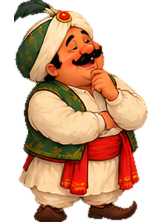
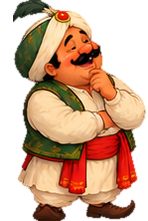
Fix the gardener's size, his legs, and the overlapping pose
Three things, all from the same re-cut:

- His resting poses were drawn at different scales on the source sheet --
  the ratio of turban width to figure height is identical across all three,
  so the pose is genuinely 8% small, not hunched. Every pose in a resting
  set is now forced to one height.

- The sheets draw the same character at sizes up to 20% apart, so the
  gesture sheet's gardener was a fifth larger than the walk sheet's. Each
  character's sets are now normalised against the smallest set's median,
  scaling down rather than up so nothing goes soft. This was quietly
  affecting the cook too (idle 281px against walk 229px).

- Grid slicing was cropping by cell, and these figures are taller than the
  row pitch, so the crop lopped their legs off at the row line -- which is
  what made one pose look cut off and collide with the next during the
  cross-dissolve. Grid mode slices by column strip now: full sheet height,
  so each figure comes out whole.

diff --git a/tools/build_sprites.py b/tools/build_sprites.py
@@ -100,12 +100,15 @@ def bbox_and_centroid(im):
     return bb, (sx / n, sy / n)
 
 
-def normalise(paths, pad=2):
-    """Bottom-align and centre each frame, keeping its native size.
+def normalise(paths, pad=2, scale=1.0, fit=None):
+    """Bottom-align and centre each frame, optionally rescaling it.
 
-    Deliberately no rescaling: within one sheet the generator already draws every
-    figure at the same scale, and forcing a common height would blow a seated
-    monkey up to the size of a walking one."""
+    `scale` multiplies every frame in the group equally, which keeps whatever
+    variation the artist drew (a walk cycle's bob, a seated monkey being
+    shorter). `fit` instead forces each frame to one height, for a set of poses
+    that are all the same figure standing and must not change size between
+    them — these sheets do draw some poses a few percent small.
+    """
     out = {}
     for p in paths:
         im = Image.open(p).convert('RGBA')
@@ -113,7 +116,15 @@ def normalise(paths, pad=2):
         if bb is None:
             raise SystemExit(f'{p} is empty')
         crop = im.crop(bb)
-        off = cx - bb[0]
+        factor = scale
+        if fit:
+            factor = fit / crop.size[1]
+        if abs(factor - 1.0) > 1e-3:
+            nw = max(1, round(crop.size[0] * factor))
+            nh = max(1, round(crop.size[1] * factor))
+            crop = crop.resize((nw, nh), Image.LANCZOS)
+            cx = cx * factor
+        off = cx - bb[0] * factor
         half = max(off, crop.size[0] - off) + pad
         w = int(round(half * 2))
         canvas = Image.new('RGBA', (w, crop.size[1]), (0, 0, 0, 0))
@@ -122,16 +133,67 @@ def normalise(paths, pad=2):
     return out
 
 
-def place(sheet, mapping, out_dir):
+def heights(paths):
+    hs = []
+    for p in paths:
+        bb, _ = bbox_and_centroid(Image.open(p).convert('RGBA'))
+        if bb:
+            hs.append(bb[3] - bb[1])
+    hs.sort()
+    return hs
+
+
+def median_height(paths):
+    hs = heights(paths)
+    return hs[len(hs) // 2] if hs else 0
+
+
+def place(sheet, mapping, out_dir, scale=1.0, fit=None):
     os.makedirs(out_dir, exist_ok=True)
     srcs = {dest: f'assets/_frames/{sheet}/{frame}.png' for dest, frame in mapping.items()}
     for dest, src in srcs.items():
         if not os.path.exists(src):
             raise SystemExit(f'missing source frame: {src}')
-    norm = normalise(list(srcs.values()))
+    norm = normalise(list(srcs.values()), scale=scale, fit=fit)
     for dest, src in srcs.items():
         norm[src].save(os.path.join(out_dir, dest + '.png'), format='PNG')
         print(f'  {dest:16s} <- {os.path.basename(src):20s} {norm[src].size[0]}x{norm[src].size[1]}')
+
+
+def character(out_dir, idle, walk=None, pose=None, same_body=True):
+    """Lay out one character's sprite sets at a common scale.
+
+    The sheets draw the same character at different sizes -- the gesture sheet
+    is about 20% larger than the walk sheet -- so each set is normalised against
+    the *smallest* set's median height. Scaling down rather than up: the figures
+    render at around 130px, so there is resolution to spare, and shrinking
+    cannot introduce the softness that enlarging would.
+    """
+    pi = [f'assets/_frames/{idle[0]}/{f}.png' for f in idle[1].values()]
+    meds = [median_height(pi)]
+    if walk:
+        pw = [f'assets/_frames/{walk[0]}/{f}.png' for f in walk[1].values()]
+        meds.append(median_height(pw))
+    if pose:
+        pp = [f'assets/_frames/{pose[0]}/{f}.png' for f in pose[1].values()]
+        meds.append(median_height(pp))
+    target = min(m for m in meds if m)
+
+    # The resting set is usually forced to one height, so a character cannot
+    # change size between poses that are all the same figure standing. A set
+    # that deliberately includes sitting poses opts out and is scaled as a
+    # group instead, which keeps a seated monkey shorter than a standing one.
+    if same_body:
+        place(idle[0], idle[1], out_dir, fit=target)
+    else:
+        pi2 = [f'assets/_frames/{idle[0]}/{f}.png' for f in idle[1].values()]
+        place(idle[0], idle[1], out_dir, scale=target / median_height(pi2))
+    if walk:
+        pw = [f'assets/_frames/{walk[0]}/{f}.png' for f in walk[1].values()]
+        place(walk[0], walk[1], out_dir, scale=target / median_height(pw))
+    if pose:
+        pp = [f'assets/_frames/{pose[0]}/{f}.png' for f in pose[1].values()]
+        place(pose[0], pose[1], out_dir, scale=target / median_height(pp))
 
 
 def main():
@@ -147,14 +209,13 @@ def main():
     # the previous gardener sheet left frames behind under the same names
     for old in __import__('glob').glob('assets/gardener/*.png'):
         __import__('os').remove(old)
-    place('gardener-a', GARDENER, 'assets/gardener')
-    place('gardener-c', GARDENER_WALK, 'assets/gardener')
+    character('assets/gardener', ('gardener-a', GARDENER), ('gardener-c', GARDENER_WALK))
     print('cook     -> assets/cook')
-    place('cook', COOK, 'assets/cook')
-    place('cook', COOK_WALK, 'assets/cook')
+    character('assets/cook', ('cook', COOK), ('cook', COOK_WALK))
     print('monkey   -> assets/monkey')
-    place('monkey', MONKEY, 'assets/monkey')
-    place('monkey', MONKEY_WALK, 'assets/monkey')
+    # the monkey's resting poses include sitting down, so they are NOT forced
+    # to a single height: a seated monkey is supposed to be shorter
+    character('assets/monkey', ('monkey', MONKEY), ('monkey', MONKEY_WALK), same_body=False)
     print('peacock  -> assets/peacock')
     place('peacock', PEACOCK, 'assets/peacock')
     place('peacock', PEACOCK_WALK, 'assets/peacock')

diff --git a/tools/slice_sheet.py b/tools/slice_sheet.py
@@ -334,28 +334,30 @@ def slice_sheet(src, out_dir, min_px=400, gap=1, comp_px=900):
 
 
 def slice_grid(src, out_dir, cols, rows, min_px=1500):
-    """Slice a sheet that is already a regular grid.
+    """Slice a sheet that is laid out as a regular grid.
 
-    Component hunting is the right tool for a loose contact sheet, but a
-    tidy 4x4 wants nothing clever: take each cell, keep its largest opaque
-    blob (which drops printed frame numbers and stray specks), and crop to it.
+    By COLUMN strip, not by cell. On these sheets the figures are taller than
+    the row pitch, so a cell crop lops their legs off; a column strip is the
+    full height of the sheet, so each figure is found whole. Within a strip the
+    rows are then just the biggest `rows` blobs, ordered top to bottom, which
+    also drops printed frame numbers and stray specks.
     """
     im = Image.open(src).convert('RGBA')
     w, h = im.size
     mask = mask_from_alpha(im) if has_real_alpha(im) else key_checkerboard(im)
     os.makedirs(out_dir, exist_ok=True)
     made = []
-    cw, ch = w / cols, h / rows
-    for r in range(rows):
-        for c in range(cols):
-            x0, y0 = int(c * cw), int(r * ch)
-            x1, y1 = int((c + 1) * cw), int((r + 1) * ch)
-            sub = [[mask[y][x] for x in range(x0, x1)] for y in range(y0, y1)]
-            comps = components(sub, x1 - x0, y1 - y0, min_px)
-            if not comps:
-                continue
-            big = max(comps, key=lambda b: b[4])
-            crop = im.crop((x0 + big[0], y0 + big[1], x0 + big[2] + 1, y0 + big[3] + 1))
+    cw = w / cols
+    for c in range(cols):
+        x0, x1 = int(c * cw), int((c + 1) * cw)
+        sub = [[mask[y][x] for x in range(x0, x1)] for y in range(h)]
+        comps = components(sub, x1 - x0, h, min_px)
+        if not comps:
+            continue
+        keep = sorted(comps, key=lambda b: -b[4])[:rows]
+        keep.sort(key=lambda b: b[1])
+        for r, big in enumerate(keep):
+            crop = im.crop((x0 + big[0], big[1], x0 + big[2] + 1, big[3] + 1))
             crop = soften(crop)
             name = f'{os.path.basename(src)[:-4]}_r{r}c{c}.png'
             crop.save(os.path.join(out_dir, name), format='PNG')

diff --git a/README.md b/README.md
@@ -221,6 +221,11 @@ numbers:
 python3 tools/slice_sheet.py assets/_sheets/gardener-c.png assets/_frames/gardener-c grid 4
 ```
 
+Grid mode slices by **column strip, not by cell**. On these sheets the figures
+are taller than the row pitch, so a cell crop lops their legs off at the row
+line; a strip is the full height of the sheet, so each figure comes out whole.
+Within a strip the rows are just the biggest *n* blobs, ordered top to bottom.
+
 Sheets differ: some carry a checkerboard, some a single flat colour, and the
 tolerance that suits one is wrong for another (the monkey's warm grey is close
 enough to its own fur that a small change collapses the sheet into one blob).
@@ -259,7 +264,19 @@ there is no animation state to keep in sync — and every pose in a set must sha
 a body type, or the dissolve looks like a costume change.
 
 `tools/build_sprites.py` then maps those frames onto the filenames the game
-loads, bottom-aligning each one and centring it on its own **centre of mass** —
+loads, laying each character's sets out at **one common scale**: the sheets draw
+the same character at sizes up to 20% apart, so every set is normalised against
+the smallest set's median height. Scaling down rather than up — the figures
+render around 130px, so there is resolution to spare, and shrinking cannot
+introduce the softness that enlarging would.
+
+A resting set of poses that are all the same figure standing is forced to a
+single height, so the character cannot change size as it fidgets. A set that
+deliberately mixes body types opts out and is scaled as a group, which keeps a
+seated monkey shorter than a standing one. Walk cycles are always group-scaled,
+which preserves the bob the artist drew.
+
+Each frame is bottom-aligned and centred on its own **centre of mass** —
 not its bounding box, which swings about with a held prop and makes the Prince
 jitter sideways as he walks. It deliberately does *not* rescale: within a sheet
 the generator already draws every figure at one scale, and forcing a common
